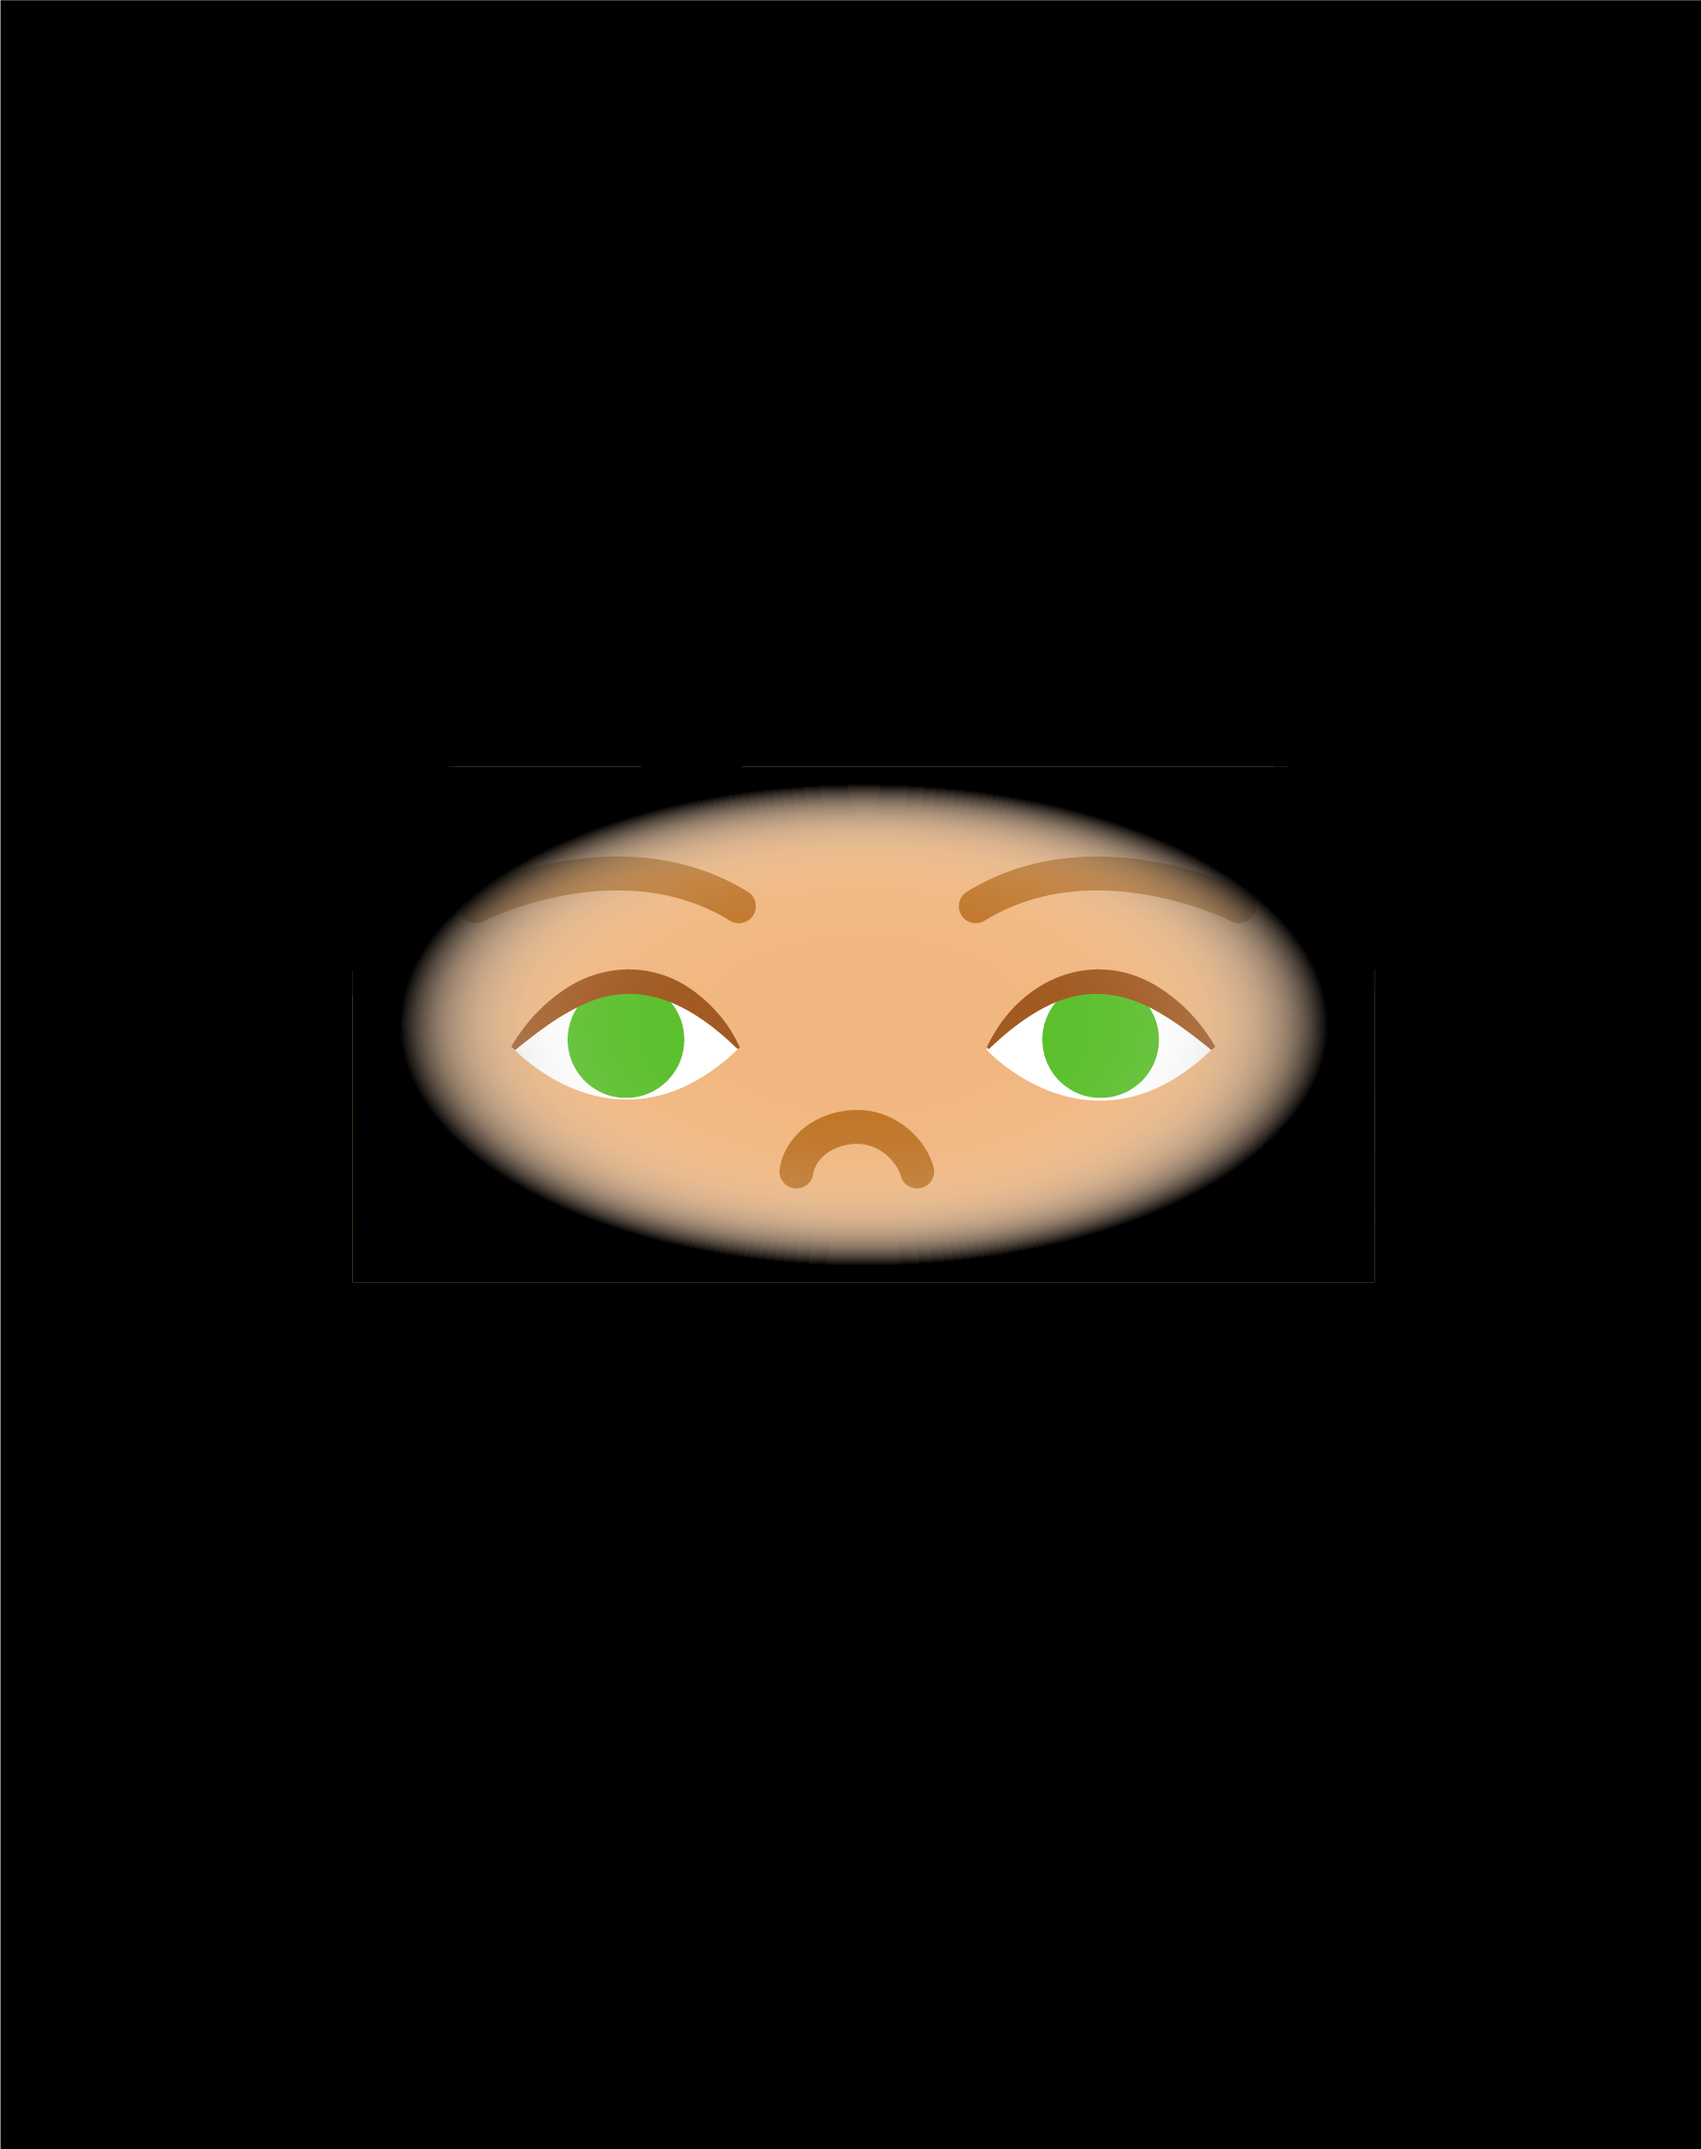
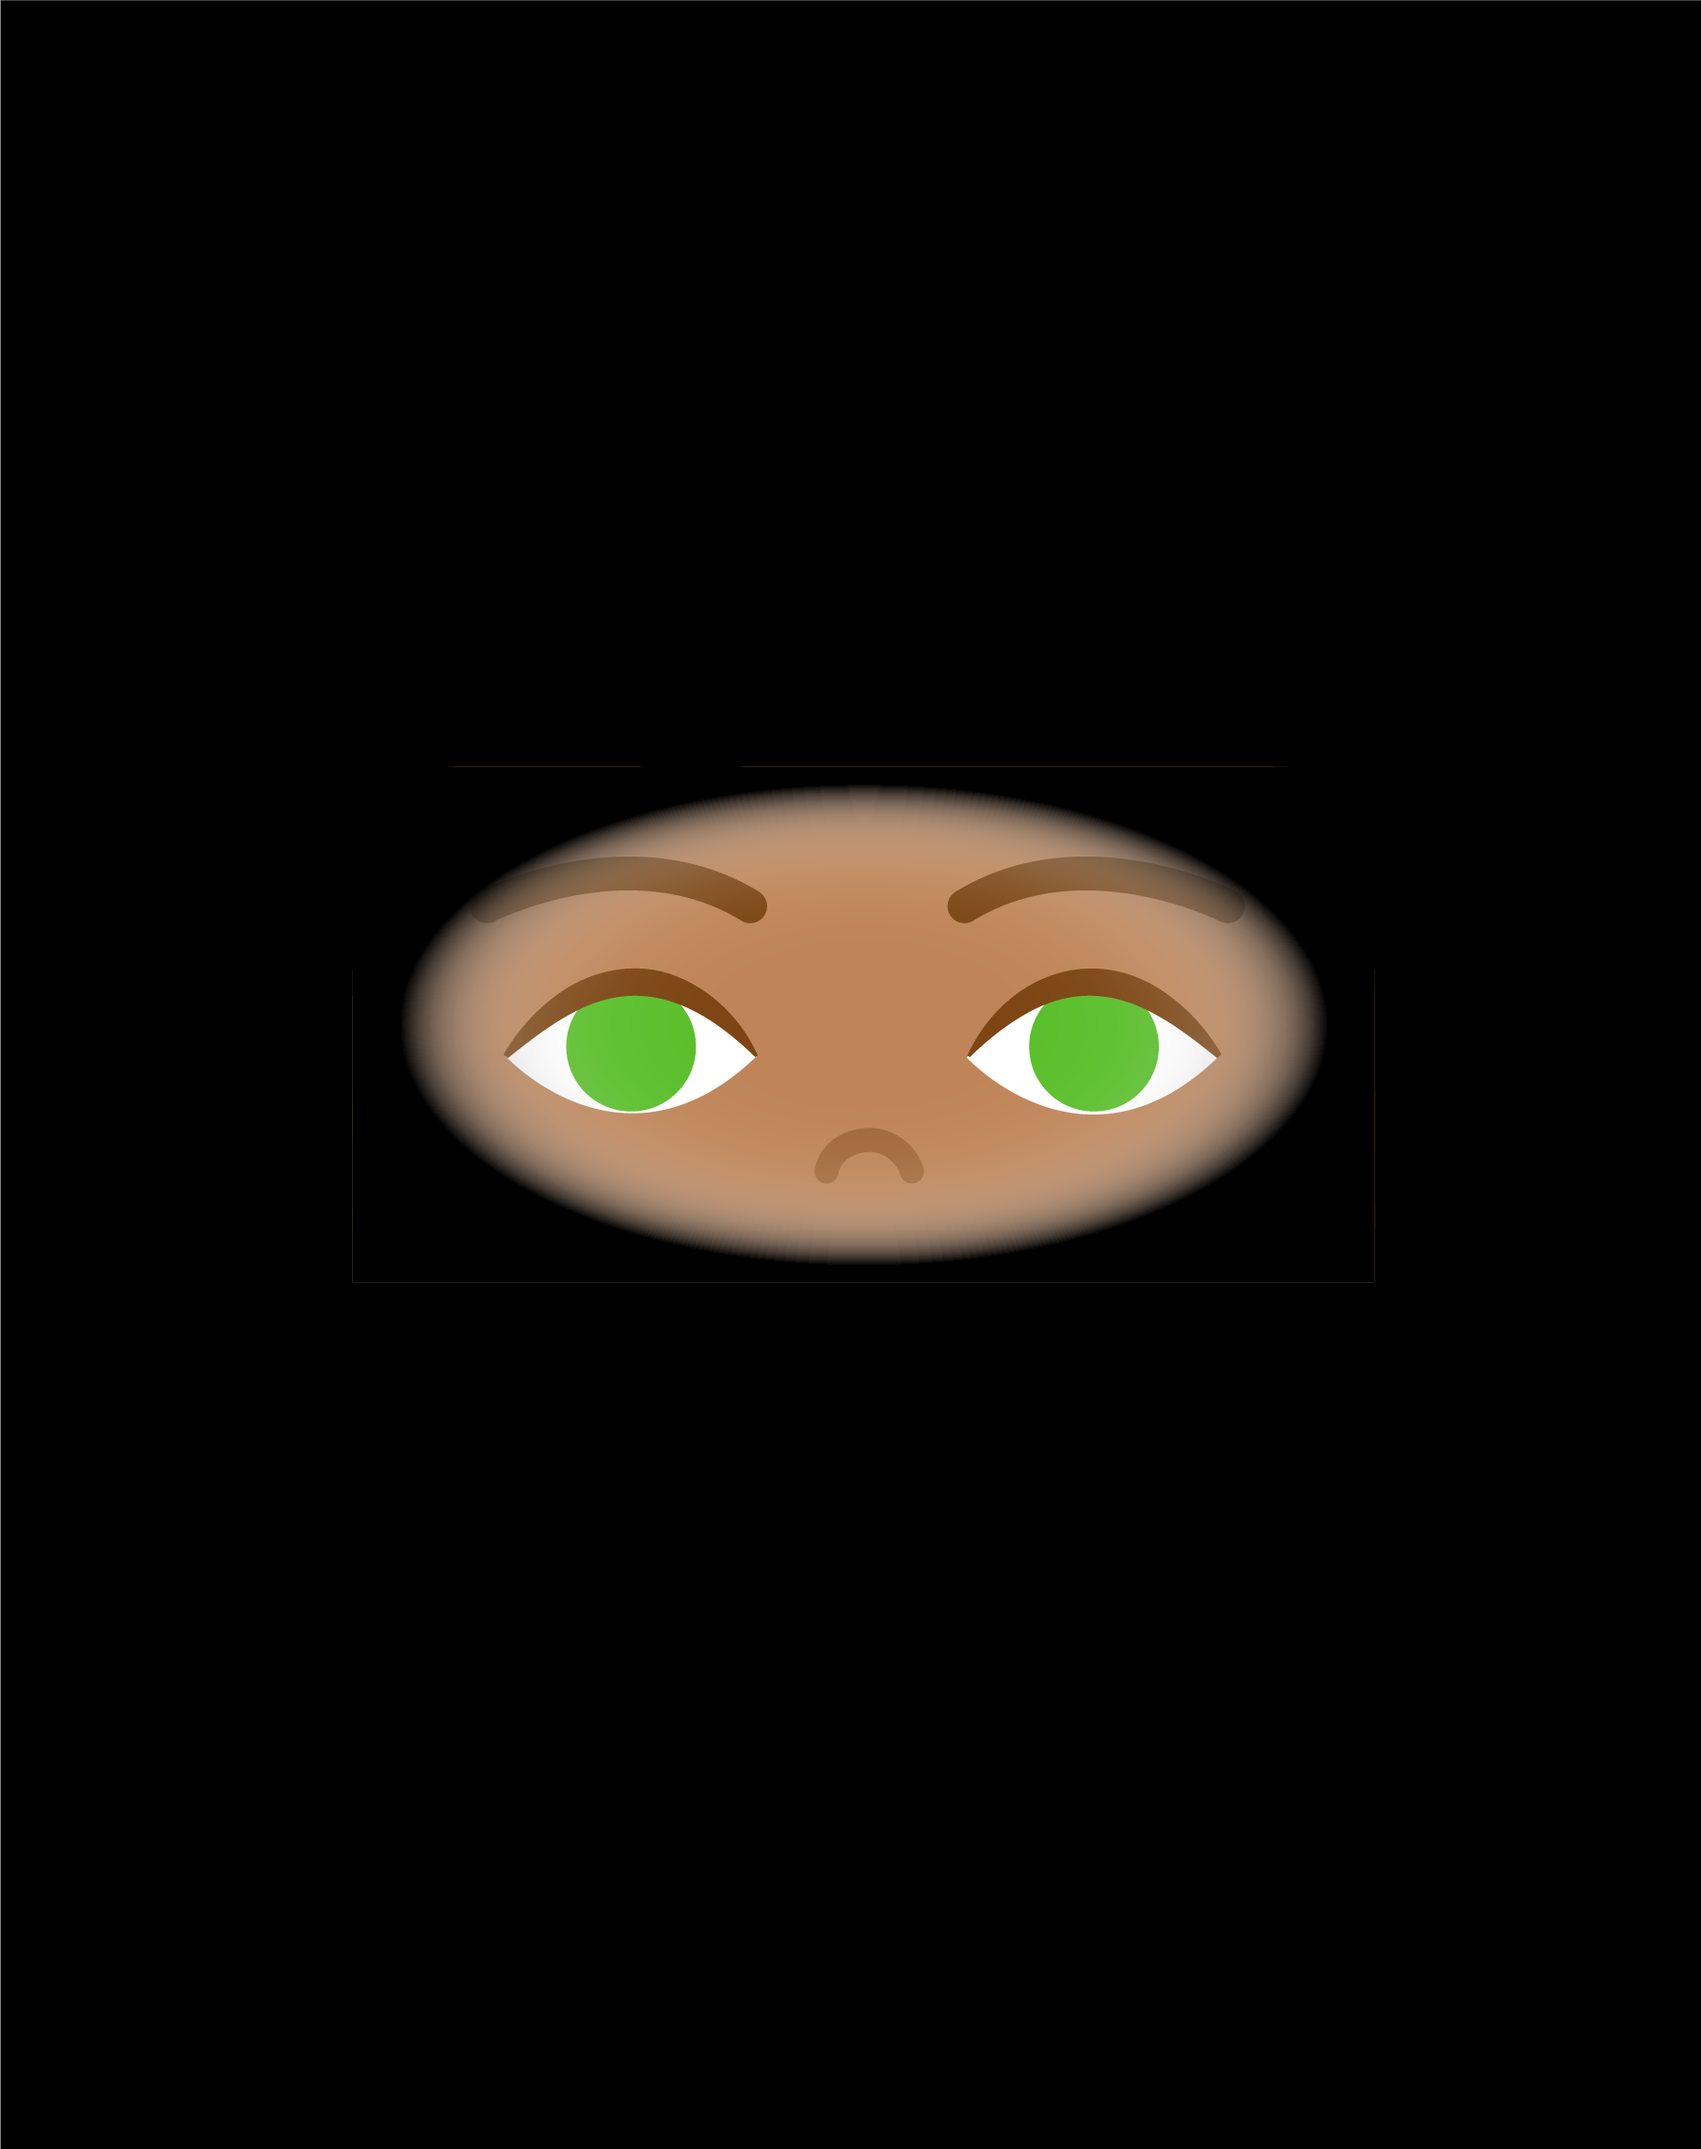
GlaucomaRAPD01

Changed region(s): [[0.2479, 0.3732, 0.7438, 0.5909]]

diff --git a/public/js/glaucomaWorkshop.js b/public/js/glaucomaWorkshop.js
@@ -873,6 +873,8 @@ function initGlaucomaRAPDFullSwingInteractive() {
 
     // for RAPD “paradoxical dilation” when swinging to the RAPD eye (right)
     lastSide: "centre", // "left" | "right" | "centre"
+    rapdRightPulseStart: null,
+    rapdRightPulseTimer: null,
   };
 
   function clamp(v, a, b) {
@@ -889,6 +891,17 @@ function initGlaucomaRAPDFullSwingInteractive() {
     el.style.transform = `translate(-50%, -50%) scale(${s})`;
   }
 
+  function setPupilTransitionMs(el, ms) {
+    el.style.transition = `transform ${ms}ms cubic-bezier(0.22, 0.61, 0.36, 1)`;
+  }
+
+  function clearRapdRightPulseTimer() {
+    if (state.rapdRightPulseTimer !== null) {
+      clearTimeout(state.rapdRightPulseTimer);
+      state.rapdRightPulseTimer = null;
+    }
+  }
+
   function render() {
     const rect = stage.getBoundingClientRect();
 
@@ -899,10 +912,12 @@ function initGlaucomaRAPDFullSwingInteractive() {
       flashlightOff.style.display = "";
       if (bubble) bubble.style.display = "";
       if (hint) hint.style.opacity = "1";
+      state.rapdRightPulseStart = null;
+      clearRapdRightPulseTimer();
 
       // baseline pupils (dark: dilated)
-      setPupilScale(pupilLeft, 0.9);
-      setPupilScale(pupilRight, 0.9);
+      setPupilScale(pupilLeft, 1.2);
+      setPupilScale(pupilRight, 1.2);
       return;
     }
 
@@ -911,7 +926,7 @@ function initGlaucomaRAPDFullSwingInteractive() {
     if (bubble) bubble.style.display = "none";
     flashlight.style.display = "block";
     beam.style.display = "block";
-    if (hint) hint.style.opacity = "0";
+    if (hint) hint.style.opacity = state.dragging ? "0" : "1";
 
     // map nx to stage x
     const cx = rect.width / 2;
@@ -971,23 +986,58 @@ function initGlaucomaRAPDFullSwingInteractive() {
     }
 
     // sizes
-    const CONSTRICT = 0.62;
-    const DILATE = 0.9;
+    const CONSTRICT = 0.82;
+    const DILATE = 1.2;
+    const RAPD_RIGHT_CONSTRICT_MS = 220;
+    const RAPD_RIGHT_DILATE_MS = 700;
+
+    // default response speed
+    setPupilTransitionMs(pupilLeft, 180);
+    setPupilTransitionMs(pupilRight, 180);
 
     // LIGHT OFF (flashlight dragged down) -> both dilate (normal + RAPD)
     if (!lightOn) {
+      state.rapdRightPulseStart = null;
+      clearRapdRightPulseTimer();
       setPupilScale(pupilLeft, DILATE);
       setPupilScale(pupilRight, DILATE);
     } else {
       // LIGHT ON (eyes receive light)
       if (!rapdOn) {
+        state.rapdRightPulseStart = null;
+        clearRapdRightPulseTimer();
         // NORMAL -> both constrict
         setPupilScale(pupilLeft, CONSTRICT);
         setPupilScale(pupilRight, CONSTRICT);
       } else {
-        // RAPD MODE -> left constrict, right dilate
+        // RAPD MODE -> right pupil briefly constricts on right light, then dilates
         setPupilScale(pupilLeft, CONSTRICT);
-        setPupilScale(pupilRight, DILATE);
+
+        if (side === "right") {
+          const now = Date.now();
+          if (state.rapdRightPulseStart === null) {
+            state.rapdRightPulseStart = now;
+            clearRapdRightPulseTimer();
+            state.rapdRightPulseTimer = setTimeout(() => {
+              state.rapdRightPulseTimer = null;
+              render();
+            }, RAPD_RIGHT_CONSTRICT_MS + 16);
+          }
+
+          const elapsed = now - state.rapdRightPulseStart;
+          if (elapsed < RAPD_RIGHT_CONSTRICT_MS) {
+            setPupilTransitionMs(pupilRight, 180);
+            setPupilScale(pupilRight, CONSTRICT);
+          } else {
+            // make dilation feel gradual and natural
+            setPupilTransitionMs(pupilRight, RAPD_RIGHT_DILATE_MS);
+            setPupilScale(pupilRight, DILATE);
+          }
+        } else {
+          state.rapdRightPulseStart = null;
+          clearRapdRightPulseTimer();
+          setPupilScale(pupilRight, CONSTRICT);
+        }
       }
     }
 
@@ -1022,6 +1072,7 @@ function initGlaucomaRAPDFullSwingInteractive() {
         state.dragging = true;
         state.pointerId = e.pointerId;
         e.target.setPointerCapture(e.pointerId);
+        render();
       }
       return;
     }

diff --git a/public/html/glaucomascrollImages.html b/public/html/glaucomascrollImages.html
@@ -1357,7 +1357,7 @@
   </div>
 </div>
 
-<!-- 17c) Pupils – Full pupil swinging light (Interactive) -->
+<!-- 17c) Pupils – Pupil swinging light test RAPD (Interactive) -->
 <div
   id="glaucomaRAPDFullSwingInteractive"
   class="page pupils-like has-eyes-topbar"
@@ -1365,7 +1365,7 @@
 >
   <div class="container pupils-container">
     <div class="eyes-topbar">
-      <div class="eyes-topbar__title">Full pupil swinging light</div>
+      <div class="eyes-topbar__title">Pupil swinging light test RAPD</div>
       <div class="eyes-topbar__icons">
         <span class="icon menuBtn" aria-label="Menu">☰</span>
       </div>
@@ -1380,7 +1380,7 @@
       #glaucomaRAPDFullSwingInteractive .rapd-instructions {
         font-size: 16px;
         line-height: 1.3;
-        margin: 6px 0 10px 0;
+        margin: 6px 0 20px 0;
         opacity: 0.9;
       }
 
@@ -1432,7 +1432,7 @@
         .rapd-switch
         input:checked
         + .rapd-slider {
-        background: rgba(0, 0, 0, 0.35);
+        background: #22c55e;
       }
       #glaucomaRAPDFullSwingInteractive
         .rapd-switch
@@ -1457,7 +1457,7 @@
         left: 50%;
         top: 52%;
         transform: translate(-50%, -50%);
-        width: min(92%, 720px);
+        width: min(128%, 720px);
         height: auto;
         user-select: none;
         pointer-events: none;
@@ -1477,6 +1477,8 @@
         transition: opacity 180ms ease;
         pointer-events: none;
         color: rgba(255, 255, 255, 0.92);
+        z-index: 9999;
+        text-align: center;
       }
 
       /* pickup flashlight (off) */
@@ -1572,27 +1574,26 @@
         border-radius: 999px;
         background: #0a0a0a;
         box-shadow: 0 0 0 2px rgba(0, 0, 0, 0.25);
-        transform: translate(-50%, -50%) scale(1);
+        transform: translate(-50%, -50%) scale(1.2);
         transition: transform 180ms ease;
         z-index: 4;
         pointer-events: none;
       }
 
       #glaucomaRAPDFullSwingInteractive #rapdPupilLeft {
-        left: 37.7%;
-        top: 50.6%;
+        left: 33.5%;
+        top: 50.7%;
       }
 
       #glaucomaRAPDFullSwingInteractive #rapdPupilRight {
-        left: 63.5%;
-        top: 50.6%;
+        left: 68.4%;
+        top: 50.7%;
       }
     </style>
 
     <div class="rapd-wrap">
       <div class="rapd-instructions">
-        Swing the light between the patient’s eyes and watch how the pupils
-        change
+        Swing the light between the eyes and observe the pupil reaction
       </div>
 
       <div class="rapd-toggleRow" aria-label="RAPD mode toggle">
@@ -1606,7 +1607,7 @@
       </div>
 
       <div id="rapdStage" aria-label="RAPD swinging light interactive">
-        <div id="rapdHint">Swing the light left and right</div>
+        <div id="rapdHint">Swing the light<br />left and right</div>
 
         <img
           id="rapdEyesImg"
@@ -1626,7 +1627,7 @@
           draggable="false"
         />
         <div id="rapdBubble">
-          Pick up the flashlight, then swing the light between the eyes
+          Pick up Arclight, then swing the light between the eyes
         </div>
 
         <!-- active flashlight + beam -->

diff --git a/public/html/glaucomaWorkshop.html b/public/html/glaucomaWorkshop.html
@@ -870,7 +870,7 @@
 
             <div class="lesson-main">
               <div class="lesson-top">
-                <span class="lesson-type">Full pupil swinging light</span
+                <span class="lesson-type">Pupil swinging light test RAPD</span
                 ><span class="lesson-meta"></span>
               </div>
               <div
